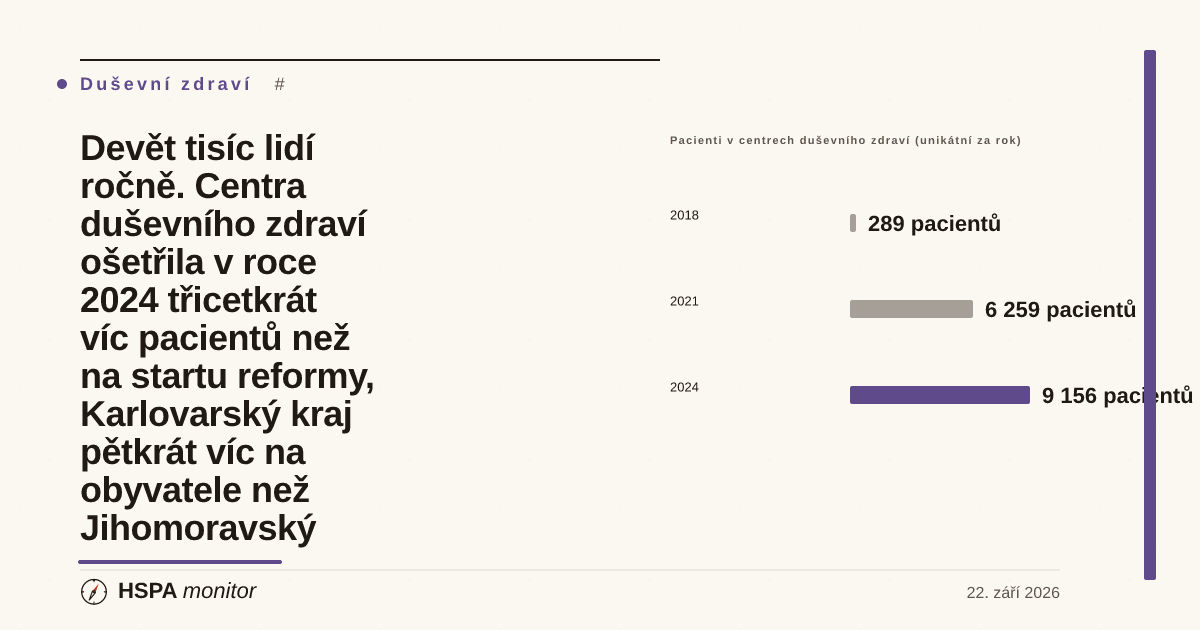
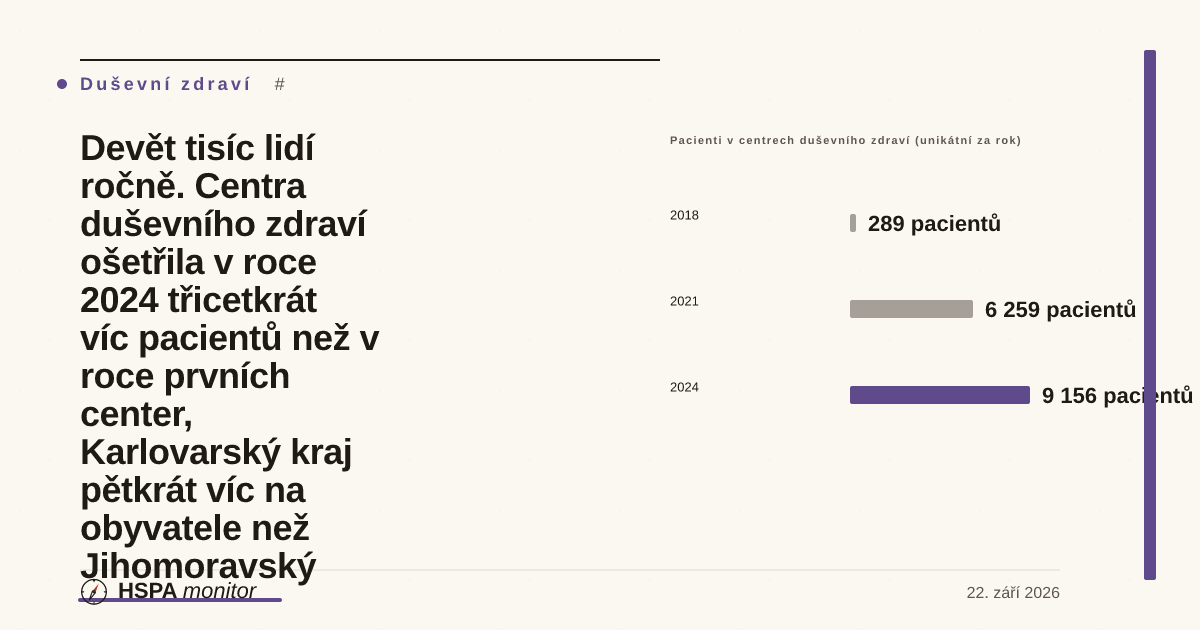
chore(audit): cdz-devet-tisic-pacientu — opraven 1 nález + drobnosti nezávislého auditu
Dieterich 2017: odhad −0,86 dne/měsíc patří podskupině ICM vs. standardní
péče (24 RCT, 3 595 osob), ne celému přehledu; standard 8/2021 personál
doporučuje, 16 úvazků; § 44b/§ 70a/§ 44d přesněji; titulek „než v roce
prvních center“; příloha č. 1 vyhlášky 432/2025 Sb.; robots v draftu noindex.

Claude-Session: https://claude.ai/code/session_01THiAiytsgZZ1zp4PbazQZ3

Changed region(s): [[0.0617, 0.573, 0.3083, 0.9651]]

diff --git a/05_M1_Starter/clanek-cdz-devet-tisic-pacientu.html b/05_M1_Starter/clanek-cdz-devet-tisic-pacientu.html
@@ -7,18 +7,20 @@
     last_reviewed: 2026-09-21
     reviewer: claude-code-agent
     status: draft
+    revisions:
+      - "2026-09-21 (audit K, jina instance): opraven 1 nalez — Dieterich 2017: odhad MD −0,86 dne/mesic patri podskupine ICM vs standardni pece (24 RCT, 3 595 osob), ne celemu prehledu 40 RCT / 7 524 osob (opraveno v clanku i 3x v karte). Drobnosti: standard 8/2021 personal 'doporucuje' (ne 'zada'), 16 uvazku (ne lidi), region obecne 60 000–140 000; bod 7.4 = priloha c. 1 vyhlasky 432/2025 Sb.; § 44b = zdravotnicke zarizeni (ne poskytovatel), § 70a sluzbu vymezuje, registrace § 78 a nasl., § 44d; § 44c odst. 3 'pro deti' (ne 'a adolescenty'); vycet podprumernych kraju -> 'nejnize jsou'; titulek 'nez na startu reformy' -> 'nez v roce prvnich center' (x31,7 je proti 2018, reforma od 2013); Winkler 2026 doplneno 2026:1–12; robots v draftu noindex; v karte 'znela' -> 'znelo'. Auditor overil vsech 14 krajskych hodnot, rocni rady, typy, vek a pohlavi z CSV OIS-04-19 a jmenovatele Eurostat; 7 PMID bez retrakce; 18 externich URL; pasaze Vestniku 8/2021 a vyhlasky 432/2025 Sb. doslova. Poznamka mimo clanek: karta centra_dusevniho_zdravi_per_100k uvadi ~40 center pro dospele v roce 2024, MZ hlasi 39 ke konci 2025 — nesrovnalost stare karty, vytizeni na centrum je proto spis podhodnocene."
     created_at: 2026-09-21
     creation_phase: rutina+indicator-add
     primary_sources_count: 9
     visual_elements_count: 6
-    notes: "Doprovodny clanek k novemu indikatoru cdz_pacienti_osetreni (Vystupy · Dusevni zdravi · Vyuziti komunitni pece o dusevni zdravi, framework hspa, dimension dostupnost, direction higher_is_better, signal neutral — benchmark je prazdny, protoze harmonizovany mezinarodni ukazatel neexistuje; referencni ramec je sit 100 CDZ podle NAPDZ 2020–2030 a 1 CDZ na 100 000 obyvatel podle Strategie reformy psychiatricke pece 2013). Vytvoreno z bloku F rutiny 2026-09-21 (pondeli = INDICATOR-ADD); discovery 2026-09-21 nenaslo nepokryte HOT deni. PRIMARNI ZDROJ HODNOTY: UZIS CR, NZIS Open, sada OIS-04-19 'Pacienti v centrech dusevniho zdravi' (NISDZ, zdrojovy registr NRHZS; CSV + CSVW metadata, dc:modified 2026-02-27; katalog data.gov.cz: poskytovatel MZ CR, licence CC BY 4.0, obdobi 2018-01-01 az 2024-12-31, rocni aktualizace), stazeno a secteno 21. 9. 2026. ROCNI HODNOTA = soucet vsech radku sady za rok (vsech 5 typu center): 2018 = 289 · 2019 = 1 455 · 2020 = 3 229 · 2021 = 6 259 · 2022 = 7 954 · 2023 = 8 481 · 2024 = 9 156. Mezirocne 2023->2024 +675 (+8,0 %); 2018->2024 x31,7; tempo rustu 2019 +404 % · 2020 +122 % · 2021 +94 % · 2022 +27 % · 2023 +6,6 % · 2024 +8,0 %. TYPY CENTER 2024 (sloupec CDZ = kod odbornosti; nazvy podle ciselniku smluvnich odbornosti VZP CR, stranka plus.vzp.cz bonifikace od 1. 1. 2026, overeno 21. 9. 2026): 350 CDZ pro osoby se zavaznym dusevnim onemocnenim 7 070 (77,2 %) · 922 CDZ pro adiktologicke pacienty 1 112 · 360 CDZ pro deti a adolescenty 592 · 355 forenzni multidisciplinarni tym 296 · 370 multidisciplinarni tym pro seniory 86. Rada odbornosti 350: 289 · 1 455 · 3 162 · 5 613 · 6 188 · 6 397 · 7 070; typy 360 a 922 v sade od 2020, 355 a 370 od 2021. NA 100 000 OBYVATEL 2024 = 84,0 (jmenovatel Eurostat demo_r_pjanaggr3, CZ k 1. 1. 2024 = 10 900 555, stazeno 21. 9. 2026 pres API). KRAJE 2024 (bydliste pacienta, vsechny typy, na 100 000 ob. / pocet): Karlovarsky 172,8/510 · Praha 121,0/1 676 · Plzensky 115,4/708 · Pardubicky 100,5/533 · Kralovehradecky 92,5/515 · Ustecky 90,9/737 · Zlinsky 87,3/507 · Stredocesky 82,5/1 201 · Jihocesky 80,7/528 · Moravskoslezsky 77,8/925 · Olomoucky 63,8/404 · Vysocina 48,1/249 · Liberecky 35,1/158 · Jihomoravsky 32,4/397; CZ999 nezarazeno 108. Pomer KVK/JMK = 5,3. Jen odbornost 350 na 100 000: KVK 160,3 · PAK 99,1 · PLK 91,0 · KHK 90,0 · ZLK 87,0 · JHC 76,2 · PHA 70,6 · MSK 70,0 · OLK 62,3 · STC 48,8 · VYS 47,3 · LBK 31,9 · JMK 31,5 · ULK 29,6 (ULK: 240 z 737 v odbornosti 350, 497 v ostatnich). Krajske populace Eurostat k 1. 1. 2024: PHA 1 384 732 · STC 1 455 940 · JHC 654 505 · PLK 613 374 · KVK 295 077 · ULK 811 169 · LBK 450 728 · KHK 556 949 · PAK 530 560 · VYS 517 960 · JMK 1 226 749 · OLK 632 864 · ZLK 580 744 · MSK 1 189 204. VEK 2024: do 19 let 1 070 (11,7 %) · 20–29 1 578 · 30–49 3 927 (42,9 %) · 50–64 1 866 · 65+ 715 (7,8 %); zeny 4 709 (51,4 %), muzi 4 447. ORIENTACNI VYTIZENI: 7 070 / ~40 center pro dospele (indikator centra_dusevniho_zdravi_per_100k, orientacni) = 177 pacientu na centrum. SIT: 5 pilotnich CDZ od zari 2018, 30 z vyzev OPZ do 2021, ~40 pro dospele 2024 (existujici karta), 50 center koncem 2025 z toho 39 pro dospele se SMI (MZ CR TZ 9. 6. 2026, citovano v clanku cdz-iv-vyzva-207-milionu), 4. vyzva na min. 15 novych center vyhlasena 15. 9. 2026 (MZ CR TZ; discovery 2026-09-21). NORMA: NAPDZ 2020–2030 sit 100 CDZ (30 z ESIF do 2022, 100 do 2030), Strategie reformy psychiatricke pece 2013: 1 CDZ na cca 100 000 ob. (nekde 80 000) — obe v repu data/plneni-dusevni-zdravi.json. Standard CDZ-SMI Vestnik MZ CR castka 8/2021 (PDF stazeno 21. 9. 2026, pdftotext): CDZ-A 'fungujici v prirozenem regionu s cca 100 000 obyvateli' — min. personal zdravotni sluzby celkem 9,0 uvazku (psychiatr 1,0; sestry 7,0), socialni sluzby celkem 7,0 uvazku. NKU TZ 7. 10. 2024 (kontrolni akce 23/22): koncem 2023 v provozu necela tretina ze sta planovanych center, chybi vic nez polovina potrebnych specialistu (prevzato z existujici karty a clanku cdz-iv). LEGISLATIVA: zakon c. 372/2011 Sb. § 44b–44d (CDZ, pet druhu center v § 44c odst. 3), zakon c. 108/2006 Sb. § 70a; uhradova vyhlaska 2026 = vyhlaska c. 432/2025 Sb. (PDF z mzd.gov.cz stazeno 21. 9. 2026): bod 7.4 pism. a) — odbornosti 350, 355, 360, 370, 920, 922 a 935 hrazeny hodnotou bodu podle casti A bodu 1 pism. a) prilohy c. 3; koeficient K_CDZ v K_Trans pro poskytovatele s transformacnim planem: 0,02 (350/360/370/922), 0,04 (355), 0,06 (355 + nektera z ostatnich). LITERATURA (vse overeno v PubMed 21. 9. 2026, tvrzeni z abstraktu): Winkler P et al. Int Rev Psychiatry 2026, doi 10.1080/09540261.2026.2619456, PMID 41579112 — case study reformy: vznik CDZ, expanze komunitnich sluzeb, pokles dlouhodobych hospitalizaci, bez cisel v abstraktu. Winkler P, Koeser L, Kondratova L et al. Lancet Psychiatry 2018;5(12):1023–1031, doi 10.1016/S2215-0366(18)30388-2, PMID 30415938 — n = 115 (35 komunitni, 80 hospitalizovani), 12 mesicu 2016; naklady 8 503 vs 16 425 EUR (rozdil 7 922, 95% CI 4 497–11 346); QALY 0,77 vs 0,80 (rozdil 0,03, 95% CI −0,04 az 0,10, nevyznamne); pravdepodobnost nakladove efektivity >= 97 %. Broulikova HM, Dlouhy M, Winkler P. Psychiatr Q 2020;91(1):113–125, doi 10.1007/s11126-019-09688-3, PMID 31773471 — vydaje 2015 = 13,7 mld. Kc = 4,08 %. Dieterich M et al. Cochrane 2017;1:CD007906, doi 10.1002/14651858.CD007906.pub3, PMID 28067944 — 40 RCT, n = 7 524, ICM vs standard MD −0,86 dne/mesic (95% CI −1,37 az −0,34), nizka jistota. Malone D et al. Cochrane 2007;(3):CD000270, doi 10.1002/14651858.CD000270.pub2, PMID 17636625 — 3 RCT, n = 587, hospitalizace RR 0,81 (95% CI 0,7–1,0), NNT 17. Shields-Zeeman L et al. BMJ Glob Health 2025;10(10), doi 10.1136/bmjgh-2024-018594, PMID 41130742 — RECOVER-E, 5 RCT (BG, HR, ME, MK, RO), n = 931, WHODAS −4,55 (p < 0,001), QoL +0,07 za 18 mesicu. Winkler P et al. Br J Psychiatry 2016;208(5):421–428, doi 10.1192/bjp.bp.114.161943, PMID 27143007 — systematicky prehled 23 kohort: bezdomovectvi a vezeni po deinstitucionalizaci sporadicke. Consensus kontrola 21. 9. 2026 (dotazy 'community mental health teams / ACT effect on hospitalisation SMI' a 'deinstitutionalisation CEE'): kandidati Dieterich 2017, Malone 2007, Shields-Zeeman 2025, Winkler 2016 — vsechny nasledne overeny v PubMed; evidence konzistentne ve prospech komunitnich tymu u hospitalizaci (Malone RR 0,81; Dieterich mala velikost ucinku, nizka jistota). CAVEATY: unikatnost jen uvnitr bunky (rok × typ × kraj × pohlavi × vek) — soucet pres typy/kraje = horni odhad; rust rady = hlavne rust site; uzemi = bydliste pacienta; bez vztahu k prevalenci; jen vykazana hrazena pece; pet typu center s ruznymi standardy; bez vysledku pece; posledni rok 2024. Petr z Brna je ilustrativni postava. published:false, robots index,follow (publikacni cron jen povysi status na review-pending a pridel cislo). Ceka na schvaleni redakce."
+    notes: "Doprovodny clanek k novemu indikatoru cdz_pacienti_osetreni (Vystupy · Dusevni zdravi · Vyuziti komunitni pece o dusevni zdravi, framework hspa, dimension dostupnost, direction higher_is_better, signal neutral — benchmark je prazdny, protoze harmonizovany mezinarodni ukazatel neexistuje; referencni ramec je sit 100 CDZ podle NAPDZ 2020–2030 a 1 CDZ na 100 000 obyvatel podle Strategie reformy psychiatricke pece 2013). Vytvoreno z bloku F rutiny 2026-09-21 (pondeli = INDICATOR-ADD); discovery 2026-09-21 nenaslo nepokryte HOT deni. PRIMARNI ZDROJ HODNOTY: UZIS CR, NZIS Open, sada OIS-04-19 'Pacienti v centrech dusevniho zdravi' (NISDZ, zdrojovy registr NRHZS; CSV + CSVW metadata, dc:modified 2026-02-27; katalog data.gov.cz: poskytovatel MZ CR, licence CC BY 4.0, obdobi 2018-01-01 az 2024-12-31, rocni aktualizace), stazeno a secteno 21. 9. 2026. ROCNI HODNOTA = soucet vsech radku sady za rok (vsech 5 typu center): 2018 = 289 · 2019 = 1 455 · 2020 = 3 229 · 2021 = 6 259 · 2022 = 7 954 · 2023 = 8 481 · 2024 = 9 156. Mezirocne 2023->2024 +675 (+8,0 %); 2018->2024 x31,7; tempo rustu 2019 +404 % · 2020 +122 % · 2021 +94 % · 2022 +27 % · 2023 +6,6 % · 2024 +8,0 %. TYPY CENTER 2024 (sloupec CDZ = kod odbornosti; nazvy podle ciselniku smluvnich odbornosti VZP CR, stranka plus.vzp.cz bonifikace od 1. 1. 2026, overeno 21. 9. 2026): 350 CDZ pro osoby se zavaznym dusevnim onemocnenim 7 070 (77,2 %) · 922 CDZ pro adiktologicke pacienty 1 112 · 360 CDZ pro deti a adolescenty 592 · 355 forenzni multidisciplinarni tym 296 · 370 multidisciplinarni tym pro seniory 86. Rada odbornosti 350: 289 · 1 455 · 3 162 · 5 613 · 6 188 · 6 397 · 7 070; typy 360 a 922 v sade od 2020, 355 a 370 od 2021. NA 100 000 OBYVATEL 2024 = 84,0 (jmenovatel Eurostat demo_r_pjanaggr3, CZ k 1. 1. 2024 = 10 900 555, stazeno 21. 9. 2026 pres API). KRAJE 2024 (bydliste pacienta, vsechny typy, na 100 000 ob. / pocet): Karlovarsky 172,8/510 · Praha 121,0/1 676 · Plzensky 115,4/708 · Pardubicky 100,5/533 · Kralovehradecky 92,5/515 · Ustecky 90,9/737 · Zlinsky 87,3/507 · Stredocesky 82,5/1 201 · Jihocesky 80,7/528 · Moravskoslezsky 77,8/925 · Olomoucky 63,8/404 · Vysocina 48,1/249 · Liberecky 35,1/158 · Jihomoravsky 32,4/397; CZ999 nezarazeno 108. Pomer KVK/JMK = 5,3. Jen odbornost 350 na 100 000: KVK 160,3 · PAK 99,1 · PLK 91,0 · KHK 90,0 · ZLK 87,0 · JHC 76,2 · PHA 70,6 · MSK 70,0 · OLK 62,3 · STC 48,8 · VYS 47,3 · LBK 31,9 · JMK 31,5 · ULK 29,6 (ULK: 240 z 737 v odbornosti 350, 497 v ostatnich). Krajske populace Eurostat k 1. 1. 2024: PHA 1 384 732 · STC 1 455 940 · JHC 654 505 · PLK 613 374 · KVK 295 077 · ULK 811 169 · LBK 450 728 · KHK 556 949 · PAK 530 560 · VYS 517 960 · JMK 1 226 749 · OLK 632 864 · ZLK 580 744 · MSK 1 189 204. VEK 2024: do 19 let 1 070 (11,7 %) · 20–29 1 578 · 30–49 3 927 (42,9 %) · 50–64 1 866 · 65+ 715 (7,8 %); zeny 4 709 (51,4 %), muzi 4 447. ORIENTACNI VYTIZENI: 7 070 / ~40 center pro dospele (indikator centra_dusevniho_zdravi_per_100k, orientacni) = 177 pacientu na centrum. SIT: 5 pilotnich CDZ od zari 2018, 30 z vyzev OPZ do 2021, ~40 pro dospele 2024 (existujici karta), 50 center koncem 2025 z toho 39 pro dospele se SMI (MZ CR TZ 9. 6. 2026, citovano v clanku cdz-iv-vyzva-207-milionu), 4. vyzva na min. 15 novych center vyhlasena 15. 9. 2026 (MZ CR TZ; discovery 2026-09-21). NORMA: NAPDZ 2020–2030 sit 100 CDZ (30 z ESIF do 2022, 100 do 2030), Strategie reformy psychiatricke pece 2013: 1 CDZ na cca 100 000 ob. (nekde 80 000) — obe v repu data/plneni-dusevni-zdravi.json. Standard CDZ-SMI Vestnik MZ CR castka 8/2021 (PDF stazeno 21. 9. 2026, pdftotext): CDZ-A 'fungujici v prirozenem regionu s cca 100 000 obyvateli' — min. personal zdravotni sluzby celkem 9,0 uvazku (psychiatr 1,0; sestry 7,0), socialni sluzby celkem 7,0 uvazku. NKU TZ 7. 10. 2024 (kontrolni akce 23/22): koncem 2023 v provozu necela tretina ze sta planovanych center, chybi vic nez polovina potrebnych specialistu (prevzato z existujici karty a clanku cdz-iv). LEGISLATIVA: zakon c. 372/2011 Sb. § 44b–44d (CDZ, pet druhu center v § 44c odst. 3), zakon c. 108/2006 Sb. § 70a; uhradova vyhlaska 2026 = vyhlaska c. 432/2025 Sb. (PDF z mzd.gov.cz stazeno 21. 9. 2026): bod 7.4 pism. a) — odbornosti 350, 355, 360, 370, 920, 922 a 935 hrazeny hodnotou bodu podle casti A bodu 1 pism. a) prilohy c. 3; koeficient K_CDZ v K_Trans pro poskytovatele s transformacnim planem: 0,02 (350/360/370/922), 0,04 (355), 0,06 (355 + nektera z ostatnich). LITERATURA (vse overeno v PubMed 21. 9. 2026, tvrzeni z abstraktu): Winkler P et al. Int Rev Psychiatry 2026, doi 10.1080/09540261.2026.2619456, PMID 41579112 — case study reformy: vznik CDZ, expanze komunitnich sluzeb, pokles dlouhodobych hospitalizaci, bez cisel v abstraktu. Winkler P, Koeser L, Kondratova L et al. Lancet Psychiatry 2018;5(12):1023–1031, doi 10.1016/S2215-0366(18)30388-2, PMID 30415938 — n = 115 (35 komunitni, 80 hospitalizovani), 12 mesicu 2016; naklady 8 503 vs 16 425 EUR (rozdil 7 922, 95% CI 4 497–11 346); QALY 0,77 vs 0,80 (rozdil 0,03, 95% CI −0,04 az 0,10, nevyznamne); pravdepodobnost nakladove efektivity >= 97 %. Broulikova HM, Dlouhy M, Winkler P. Psychiatr Q 2020;91(1):113–125, doi 10.1007/s11126-019-09688-3, PMID 31773471 — vydaje 2015 = 13,7 mld. Kc = 4,08 %. Dieterich M et al. Cochrane 2017;1:CD007906, doi 10.1002/14651858.CD007906.pub3, PMID 28067944 — 40 RCT, n = 7 524, ICM vs standard MD −0,86 dne/mesic (95% CI −1,37 az −0,34), nizka jistota. Malone D et al. Cochrane 2007;(3):CD000270, doi 10.1002/14651858.CD000270.pub2, PMID 17636625 — 3 RCT, n = 587, hospitalizace RR 0,81 (95% CI 0,7–1,0), NNT 17. Shields-Zeeman L et al. BMJ Glob Health 2025;10(10), doi 10.1136/bmjgh-2024-018594, PMID 41130742 — RECOVER-E, 5 RCT (BG, HR, ME, MK, RO), n = 931, WHODAS −4,55 (p < 0,001), QoL +0,07 za 18 mesicu. Winkler P et al. Br J Psychiatry 2016;208(5):421–428, doi 10.1192/bjp.bp.114.161943, PMID 27143007 — systematicky prehled 23 kohort: bezdomovectvi a vezeni po deinstitucionalizaci sporadicke. Consensus kontrola 21. 9. 2026 (dotazy 'community mental health teams / ACT effect on hospitalisation SMI' a 'deinstitutionalisation CEE'): kandidati Dieterich 2017, Malone 2007, Shields-Zeeman 2025, Winkler 2016 — vsechny nasledne overeny v PubMed; evidence konzistentne ve prospech komunitnich tymu u hospitalizaci (Malone RR 0,81; Dieterich mala velikost ucinku, nizka jistota). CAVEATY: unikatnost jen uvnitr bunky (rok × typ × kraj × pohlavi × vek) — soucet pres typy/kraje = horni odhad; rust rady = hlavne rust site; uzemi = bydliste pacienta; bez vztahu k prevalenci; jen vykazana hrazena pece; pet typu center s ruznymi standardy; bez vysledku pece; posledni rok 2024. Petr z Brna je ilustrativni postava. published:false, robots noindex (publikacni cron nastavi index,follow, povysi status na review-pending a pridel cislo). Ceka na schvaleni redakce."
 -->
 <meta name="viewport" content="width=device-width, initial-scale=1.0">
-<title>Devět tisíc lidí ročně. Centra duševního zdraví ošetřila v roce 2024 třicetkrát víc pacientů než na startu reformy, Karlovarský kraj pětkrát víc na obyvatele než Jihomoravský · HSPA Monitor</title>
+<title>Devět tisíc lidí ročně. Centra duševního zdraví ošetřila v roce 2024 třicetkrát víc pacientů než v roce prvních center, Karlovarský kraj pětkrát víc na obyvatele než Jihomoravský · HSPA Monitor</title>
 <meta name="description" content="Centra duševního zdraví, páteř reformy psychiatrické péče, ošetřila v roce 2024 celkem 9 156 pacientů — 289 jich bylo v roce 2018, kdy se první otevírala. Na 100 000 obyvatel to je 84 lidí, v Karlovarském kraji 173, v Jihomoravském 32. Síť má být stovka center, koncem roku 2025 jich bylo padesát. Nový indikátor HSPA Monitoru z otevřených dat ÚZIS.">
-<meta name="robots" content="index, follow">
+<meta name="robots" content="noindex, nofollow">
 <meta property="og:type" content="article">
-<meta property="og:title" content="Devět tisíc lidí ročně. Centra duševního zdraví ošetřila v roce 2024 třicetkrát víc pacientů než na startu reformy, Karlovarský kraj pětkrát víc na obyvatele než Jihomoravský">
+<meta property="og:title" content="Devět tisíc lidí ročně. Centra duševního zdraví ošetřila v roce 2024 třicetkrát víc pacientů než v roce prvních center, Karlovarský kraj pětkrát víc na obyvatele než Jihomoravský">
 <meta property="og:description" content="9 156 pacientů v roce 2024 proti 289 v roce 2018. Na 100 000 obyvatel 84 lidí, mezi kraji rozdíl 5,3násobný. Síť má být stovka center, je jich padesát. Nový indikátor HSPA Monitoru.">
 <meta property="og:locale" content="cs_CZ">
 <meta property="article:published_time" content="2026-09-22">
@@ -55,7 +57,7 @@
         <span class="article-tag">Duševní zdraví</span>
         <span class="article-tag article-tag-muted">centra duševního zdraví · reforma psychiatrie · komunitní péče · regionální nerovnosti</span>
       </div>
-      <h1 class="article-title">Devět tisíc lidí ročně. Centra duševního zdraví ošetřila v roce 2024 třicetkrát víc pacientů než na startu reformy, Karlovarský kraj pětkrát víc na obyvatele než Jihomoravský</h1>
+      <h1 class="article-title">Devět tisíc lidí ročně. Centra duševního zdraví ošetřila v roce 2024 třicetkrát víc pacientů než v roce prvních center, Karlovarský kraj pětkrát víc na obyvatele než Jihomoravský</h1>
       <p class="article-deck">
         Centra duševního zdraví, páteř reformy psychiatrické péče, ošetřila v roce 2024 celkem <strong>9 156 pacientů</strong> — 289 jich bylo v roce 2018, kdy se první otevírala. Na 100 000 obyvatel to je 84 lidí, v Karlovarském kraji 173, v Jihomoravském 32. Síť má být stovka center, koncem roku 2025 jich bylo padesát. Nový indikátor HSPA Monitoru z otevřených dat ÚZIS.
       </p>
@@ -156,7 +158,7 @@
           <li class="av-flow-step av-flow-step-warn">
             <span class="av-flow-num"></span>
             <h4 class="av-flow-title">Kapacita: 16 úvazků na tým</h4>
-            <p class="av-flow-desc">Standard centra pro region o 100 000 obyvatelích žádá nejméně 9,0 úvazku zdravotníků a 7,0 úvazku sociálních pracovníků. NKÚ: chybí víc než polovina potřebných specialistů.</p>
+            <p class="av-flow-desc">Standard centra pro region o 100 000 obyvatelích doporučuje jako minimum 9,0 úvazku zdravotníků a 7,0 úvazku sociálních pracovníků. NKÚ: chybí víc než polovina potřebných specialistů.</p>
           </li>
           <li class="av-flow-step">
             <span class="av-flow-num"></span>
@@ -168,7 +170,7 @@
       </figure>
 
       <p>
-        Standard centra pro osoby se závažným duševním onemocněním, který ministerstvo vydalo ve Věstníku v roce 2021, počítá s komplexním centrem „fungujícím v přirozeném regionu s cca 100 000 obyvateli“ a s minimálním personálem devíti úvazků zdravotníků (z toho jeden psychiatr a sedm sester, polovina se specializací v psychiatrickém ošetřovatelství) a sedmi úvazků pracovníků sociálních služeb. Tým o šestnácti lidech, který má za sebou v průměru 180 pacientů ročně, není nevytížený. Pokud má indikátor růst dál, musí buď přibýt centra, nebo lidé v nich — a Česko má <a href="indicator.html?id=psychiatri_per_100k">13 psychiatrů na 100 000 obyvatel</a> proti průměru OECD 17,3.
+        Standard centra pro osoby se závažným duševním onemocněním, který ministerstvo vydalo ve Věstníku v roce 2021, počítá s komplexním centrem „fungujícím v přirozeném regionu s cca 100 000 obyvateli“ (obecně 60 000 až 140 000) a doporučuje jako minimum devět úvazků zdravotníků (z toho jeden psychiatr a sedm sester, polovina se specializací v psychiatrickém ošetřovatelství) a sedm úvazků pracovníků sociálních služeb. Tým o šestnácti úvazcích, který má za sebou v průměru 180 pacientů ročně, není nevytížený. Pokud má indikátor růst dál, musí buď přibýt centra, nebo lidé v nich — a Česko má <a href="indicator.html?id=psychiatri_per_100k">13 psychiatrů na 100 000 obyvatel</a> proti průměru OECD 17,3.
       </p>
 
       <h3>Mezinárodní srovnání: evidence pro model, ne pro číslo</h3>
@@ -186,7 +188,7 @@
             <tbody>
               <tr><td>Winkler et al., <em>Lancet Psychiatry</em> 2018 (ČR)</td><td>prospektivní srovnání, 115 osob s psychózou, 12 měsíců (2016)</td><td>péče v komunitě 8 503 € na osobu a rok vs. 16 425 € v nemocnici; rozdíl v kvalitě života 0,03 QALY nevýznamný; pravděpodobnost nákladové efektivity ≥ 97 %</td></tr>
               <tr><td>Malone et al., <em>Cochrane</em> 2007</td><td>meta-analýza 3 RCT, 587 osob</td><td>komunitní tým snižuje riziko hospitalizace, RR 0,81 (95% CI 0,7–1,0), NNT 17</td></tr>
-              <tr><td>Dieterich et al., <em>Cochrane</em> 2017</td><td>meta-analýza 40 RCT, 7 524 osob</td><td>intenzivní case management zkracuje pobyt v nemocnici o 0,86 dne na měsíc (95% CI −1,37 až −0,34), nízká jistota důkazu</td></tr>
+              <tr><td>Dieterich et al., <em>Cochrane</em> 2017</td><td>meta-analýza 40 RCT, 7 524 osob</td><td>intenzivní case management proti standardní péči (24 RCT, 3 595 osob) zkracuje pobyt v nemocnici o 0,86 dne na měsíc (95% CI −1,37 až −0,34), nízká jistota důkazu</td></tr>
               <tr><td>Shields-Zeeman et al., <em>BMJ Global Health</em> 2025 (RECOVER-E)</td><td>sdružená analýza 5 RCT, 931 osob, jihovýchodní Evropa</td><td>komunitní péče snižuje míru postižení WHODAS o 4,55 bodu a zvyšuje kvalitu života o 0,07 za 18 měsíců</td></tr>
               <tr><td>Winkler et al., <em>Br J Psychiatry</em> 2016</td><td>systematický přehled 23 kohortových studií</td><td>bezdomovectví a vězení po propuštění z dlouhodobé hospitalizace se vyskytují sporadicky, ve většině studií vůbec</td></tr>
             </tbody>
@@ -224,7 +226,7 @@
       </figure>
 
       <p>
-        Rozdíl mezi prvním a posledním krajem je <strong>5,3násobný</strong>. Karlovarský kraj, nejmenší v republice, měl v péči center 510 svých obyvatel, tedy 172,8 na 100 000; Jihomoravský kraj s druhou největší metropolí země, psychiatrickou nemocnicí v Brně a lékařskou fakultou 397 obyvatel, tedy 32,4 na 100 000. Nad celostátním průměrem 84,0 jsou Praha (121,0), Plzeňský (115,4), Pardubický (100,5), Královéhradecký (92,5), Ústecký (90,9) a Zlínský kraj (87,3); pod ním Vysočina (48,1), Liberecký (35,1) a Jihomoravský (32,4).
+        Rozdíl mezi prvním a posledním krajem je <strong>5,3násobný</strong>. Karlovarský kraj, nejmenší v republice, měl v péči center 510 svých obyvatel, tedy 172,8 na 100 000; Jihomoravský kraj s druhou největší metropolí země, psychiatrickou nemocnicí v Brně a lékařskou fakultou 397 obyvatel, tedy 32,4 na 100 000. Nad celostátním průměrem 84,0 jsou Praha (121,0), Plzeňský (115,4), Pardubický (100,5), Královéhradecký (92,5), Ústecký (90,9) a Zlínský kraj (87,3); nejníže jsou Vysočina (48,1), Liberecký (35,1) a Jihomoravský (32,4).
       </p>
       <p>
         Ústecký kraj je zvláštní případ: ze 737 pacientů jich bylo jen 240 v centrech pro osoby se závažným duševním onemocněním a 497 v ostatních typech, takže v samotné cílové skupině reformy stojí s 29,6 pacienta na 100 000 obyvatel na posledním místě. Pořadí podle center pro osoby se závažným duševním onemocněním vede Karlovarský kraj (160,3), následují Pardubický (99,1), Plzeňský (91,0) a Královéhradecký (90,0); Praha je se 70,6 uprostřed. Kraj bydliště přitom není totéž co kraj centra — pacient může dojíždět přes hranici — a sada neuvádí, kolik lidí s vážným duševním onemocněním v kraji žije. Pětinásobný rozdíl ale neodpovídá žádnému známému rozdílu v nemocnosti; odpovídá tomu, kde centra vznikla a kde ne.
@@ -234,11 +236,11 @@
         <div class="av-counter-block av-counter-block-neutral">
           <span class="av-counter" data-value="5" data-suffix=" druhů">5 druhů</span>
           <span class="av-counter-label">center duševního zdraví rozlišuje § 44c zákona o zdravotních službách</span>
-          <span class="av-counter-foot">pro osoby se závažným onemocněním, děti a adolescenty, seniory, lidi se závislostí a lidi s ochranným léčením</span>
+          <span class="av-counter-foot">pro osoby se závažnou duševní poruchou, děti, seniory, osoby s adiktologickou poruchou a osoby s nařízeným ochranným léčením</span>
         </div>
       </aside>
       <p>
-        Podle § 44b zákona č. 372/2011 Sb. je centrum duševního zdraví poskytovatel zdravotních a zároveň sociálních služeb pro lidi s duševním onemocněním, který pracuje v jejich přirozeném prostředí; sociální složku registruje kraj podle § 70a zákona o sociálních službách. Tým pracuje metodou case managementu: každý klient má klíčového pracovníka, který koordinuje léčbu, bydlení, práci a úřady. Standardy jednotlivých druhů center vydává ministerstvo ve Věstníku (částky 8/2021, 15/2022 a 9/2025).
+        Podle § 44b zákona č. 372/2011 Sb. je centrum duševního zdraví zdravotnické zařízení, v němž se lidem s duševním onemocněním poskytují zdravotní služby podle § 44c a zároveň sociální služby podle zákona o sociálních službách, a to v jejich přirozeném prostředí; sociální službu centra vymezuje § 70a zákona č. 108/2006 Sb. a její registraci musí poskytovatel podle § 44d držet sám nebo zajistit smluvně. Tým pracuje metodou case managementu: každý klient má klíčového pracovníka, který koordinuje léčbu, bydlení, práci a úřady. Standardy jednotlivých druhů center vydává ministerstvo ve Věstníku (částky 8/2021, 15/2022 a 9/2025).
       </p>
       <div class="av-aside-clear"></div>
 
@@ -302,7 +304,7 @@
         <ul class="article-sources-list">
           <li><strong>Zákon č. 372/2011 Sb., o zdravotních službách</strong> — § 44b (centrum duševního zdraví), § 44c (pět druhů center), § 44d (sociální služba); <strong>zákon č. 108/2006 Sb., o sociálních službách</strong> — § 70a. <a href="https://www.zakonyprolidi.cz/cs/2011-372" target="_blank" rel="noopener">zakonyprolidi.cz ↗</a></li>
           <li><strong>Ministerstvo zdravotnictví ČR — Standard služeb poskytovaných v Centrech duševního zdraví (CDZ) pro osoby se závažným chronickým duševním onemocněním (SMI), Věstník MZ ČR částka 8/2021.</strong> Zdroj údajů o přirozeném regionu cca 100 000 obyvatel a minimálním personálu 9,0 úvazku zdravotníků a 7,0 úvazku pracovníků sociálních služeb (kap. 4.1). PDF staženo 21. 9. 2026. <a href="https://mzd.gov.cz/wp-content/uploads/2021/06/Vestnik-MZ_8-2021.pdf" target="_blank" rel="noopener">mzd.gov.cz ↗</a></li>
-          <li><strong>Ministerstvo zdravotnictví ČR — Úhradová vyhláška 2026 (vyhláška č. 432/2025 Sb.).</strong> Bod 7.4 písm. a) přílohy (úhrada odborností 350, 355, 360, 370, 920, 922 a 935) a koeficient bonifikace K_CDZ za provoz centra duševního zdraví (0,02 / 0,04 / 0,06). PDF staženo 21. 9. 2026. <a href="https://mzd.gov.cz/uhradova-vyhlaska-2026/" target="_blank" rel="noopener">mzd.gov.cz ↗</a></li>
+          <li><strong>Ministerstvo zdravotnictví ČR — Úhradová vyhláška 2026 (vyhláška č. 432/2025 Sb.).</strong> Bod 7.4 písm. a) přílohy č. 1 (úhrada odborností 350, 355, 360, 370, 920, 922 a 935) a koeficient bonifikace K_CDZ za provoz centra duševního zdraví (0,02 / 0,04 / 0,06). PDF staženo 21. 9. 2026. <a href="https://mzd.gov.cz/uhradova-vyhlaska-2026/" target="_blank" rel="noopener">mzd.gov.cz ↗</a></li>
           <li><strong>Ministerstvo zdravotnictví ČR — Národní akční plán pro duševní zdraví 2020–2030 a Strategie reformy psychiatrické péče (2013).</strong> Cíl sítě 100 center (30 z projektů ESIF do roku 2022), 1 centrum na cca 100 000 obyvatel; HSPA Monitor cíle sleduje na stránce plnění strategie. <a href="plneni-dusevni-zdravi.html">plneni-dusevni-zdravi.html</a> · <a href="https://www.reformapsychiatrie.cz/projekty/centra-dusevniho-zdravi-cdz" target="_blank" rel="noopener">reformapsychiatrie.cz ↗</a></li>
           <li><strong>Ministerstvo zdravotnictví ČR — tisková zpráva o dalším rozvoji sítě center duševního zdraví (9. 6. 2026)</strong>: koncem roku 2025 celkem 50 center, z toho 39 pro dospělé se závažným duševním onemocněním; <strong>tisková zpráva o dotačním programu na vznik nových center (15. 9. 2026)</strong>: čtvrtá výzva na nejméně 15 center. <a href="https://mzd.gov.cz/tiskove-centrum-mz/ministerstvo-zdravotnictvi-predstavilo-dalsi-rozvoj-site-center-dusevniho-zdravi-ve-vseobecne-fakultni-nemocnici-v-praze-zahajilo-provoz-nove-centrum-pro-osoby-se-zavislostmi/" target="_blank" rel="noopener">mzd.gov.cz ↗</a> · <a href="https://mzd.gov.cz/tiskove-centrum-mz/ministerstvo-zdravotnictvi-otevira-dotacni-program-na-vznik-novych-center-dusevniho-zdravi/" target="_blank" rel="noopener">mzd.gov.cz ↗</a></li>
           <li><strong>Nejvyšší kontrolní úřad — kontrolní akce 23/22, tisková zpráva (7. 10. 2024).</strong> Koncem roku 2023 v provozu necelá třetina ze sta plánovaných center; pro dobudování sítě chybí více než polovina potřebných specialistů. <a href="https://www.nku.cz/cz/pro-media/tiskove-zpravy/kontrola-nku:-center-dusevniho-zdravi-je-malo--chybi-odborny-personal--neni-zajisteno-financovani-id14289/" target="_blank" rel="noopener">nku.cz ↗</a></li>
@@ -312,9 +314,9 @@
         <h5 class="sources-group-h">Evidence</h5>
         <ul class="article-sources-list">
           <li><strong>Winkler P, Koeser L, Kondrátová L et al. Cost-effectiveness of care for people with psychosis in the community and psychiatric hospitals in the Czech Republic: an economic analysis.</strong> <em>Lancet Psychiatry</em> 2018;5(12):1023–1031. Prospektivní srovnání 115 osob (35 v komunitě, 80 hospitalizovaných), 12 měsíců; náklady 8 503 vs. 16 425 € na osobu, rozdíl v QALY 0,03 nevýznamný. Ověřeno v PubMed 21. 9. 2026 (PMID 30415938). <a href="https://doi.org/10.1016/S2215-0366(18)30388-2" target="_blank" rel="noopener">doi.org ↗</a></li>
-          <li><strong>Winkler P, Klimková V, Broulíková HM et al. Learning from mental health reform under political change: lessons for sustainable mental health systems from Czechia.</strong> <em>International Review of Psychiatry</em> 2026. Případová studie reformy: vznik center, rozšíření komunitních služeb, pokles dlouhodobých hospitalizací, zpomalení po politických změnách. Ověřeno v PubMed 21. 9. 2026 (PMID 41579112). <a href="https://doi.org/10.1080/09540261.2026.2619456" target="_blank" rel="noopener">doi.org ↗</a></li>
+          <li><strong>Winkler P, Klimková V, Broulíková HM et al. Learning from mental health reform under political change: lessons for sustainable mental health systems from Czechia.</strong> <em>International Review of Psychiatry</em> 2026:1–12 (online před tiskem). Případová studie reformy: vznik center, rozšíření komunitních služeb, pokles dlouhodobých hospitalizací, zpomalení po politických změnách. Ověřeno v PubMed 21. 9. 2026 (PMID 41579112). <a href="https://doi.org/10.1080/09540261.2026.2619456" target="_blank" rel="noopener">doi.org ↗</a></li>
           <li><strong>Malone D, Newton-Howes G, Simmonds S, Marriott S, Tyrer P. Community mental health teams (CMHTs) for people with severe mental illnesses and disordered personality.</strong> <em>Cochrane Database of Systematic Reviews</em> 2007;(3):CD000270. Meta-analýza 3 RCT, 587 osob; hospitalizace RR 0,81 (95% CI 0,7–1,0). Ověřeno v PubMed 21. 9. 2026 (PMID 17636625). <a href="https://doi.org/10.1002/14651858.CD000270.pub2" target="_blank" rel="noopener">doi.org ↗</a></li>
-          <li><strong>Dieterich M, Irving CB, Bergman H, Khokhar MA, Park B, Marshall M. Intensive case management for severe mental illness.</strong> <em>Cochrane Database of Systematic Reviews</em> 2017;1:CD007906. Meta-analýza 40 RCT, 7 524 osob; dny v nemocnici za měsíc MD −0,86 (95% CI −1,37 až −0,34), nízká jistota důkazu. Ověřeno v PubMed 21. 9. 2026 (PMID 28067944). <a href="https://doi.org/10.1002/14651858.CD007906.pub3" target="_blank" rel="noopener">doi.org ↗</a></li>
+          <li><strong>Dieterich M, Irving CB, Bergman H, Khokhar MA, Park B, Marshall M. Intensive case management for severe mental illness.</strong> <em>Cochrane Database of Systematic Reviews</em> 2017;1:CD007906. Přehled 40 RCT, 7 524 osob; v podskupině intenzivní case management vs. standardní péče (24 RCT, 3 595 osob) dny v nemocnici za měsíc MD −0,86 (95% CI −1,37 až −0,34), nízká jistota důkazu. Ověřeno v PubMed 21. 9. 2026 (PMID 28067944). <a href="https://doi.org/10.1002/14651858.CD007906.pub3" target="_blank" rel="noopener">doi.org ↗</a></li>
           <li><strong>Shields-Zeeman L, Smit F, Wijnen B et al. Community versus institutionalised care for people with severe mental illness in five countries in Southeast Europe: pooled analysis of five randomised trials.</strong> <em>BMJ Global Health</em> 2025;10(10). RECOVER-E, 931 osob; WHODAS −4,55 bodu, kvalita života +0,07 za 18 měsíců. Ověřeno v PubMed 21. 9. 2026 (PMID 41130742). <a href="https://doi.org/10.1136/bmjgh-2024-018594" target="_blank" rel="noopener">doi.org ↗</a></li>
           <li><strong>Winkler P, Barrett B, McCrone P, Csémy L, Janoušková M, Höschl C. Deinstitutionalised patients, homelessness and imprisonment: systematic review.</strong> <em>British Journal of Psychiatry</em> 2016;208(5):421–428. Přehled 23 kohortových studií. Ověřeno v PubMed 21. 9. 2026 (PMID 27143007). <a href="https://doi.org/10.1192/bjp.bp.114.161943" target="_blank" rel="noopener">doi.org ↗</a></li>
           <li><strong>Broulíková HM, Dlouhý M, Winkler P. Expenditures on Mental Health Care in the Czech Republic in 2015.</strong> <em>Psychiatric Quarterly</em> 2020;91(1):113–125. Výdaje 13,7 mld. Kč, 4,08 % zdravotních výdajů. Ověřeno v PubMed 21. 9. 2026 (PMID 31773471). <a href="https://doi.org/10.1007/s11126-019-09688-3" target="_blank" rel="noopener">doi.org ↗</a></li>
